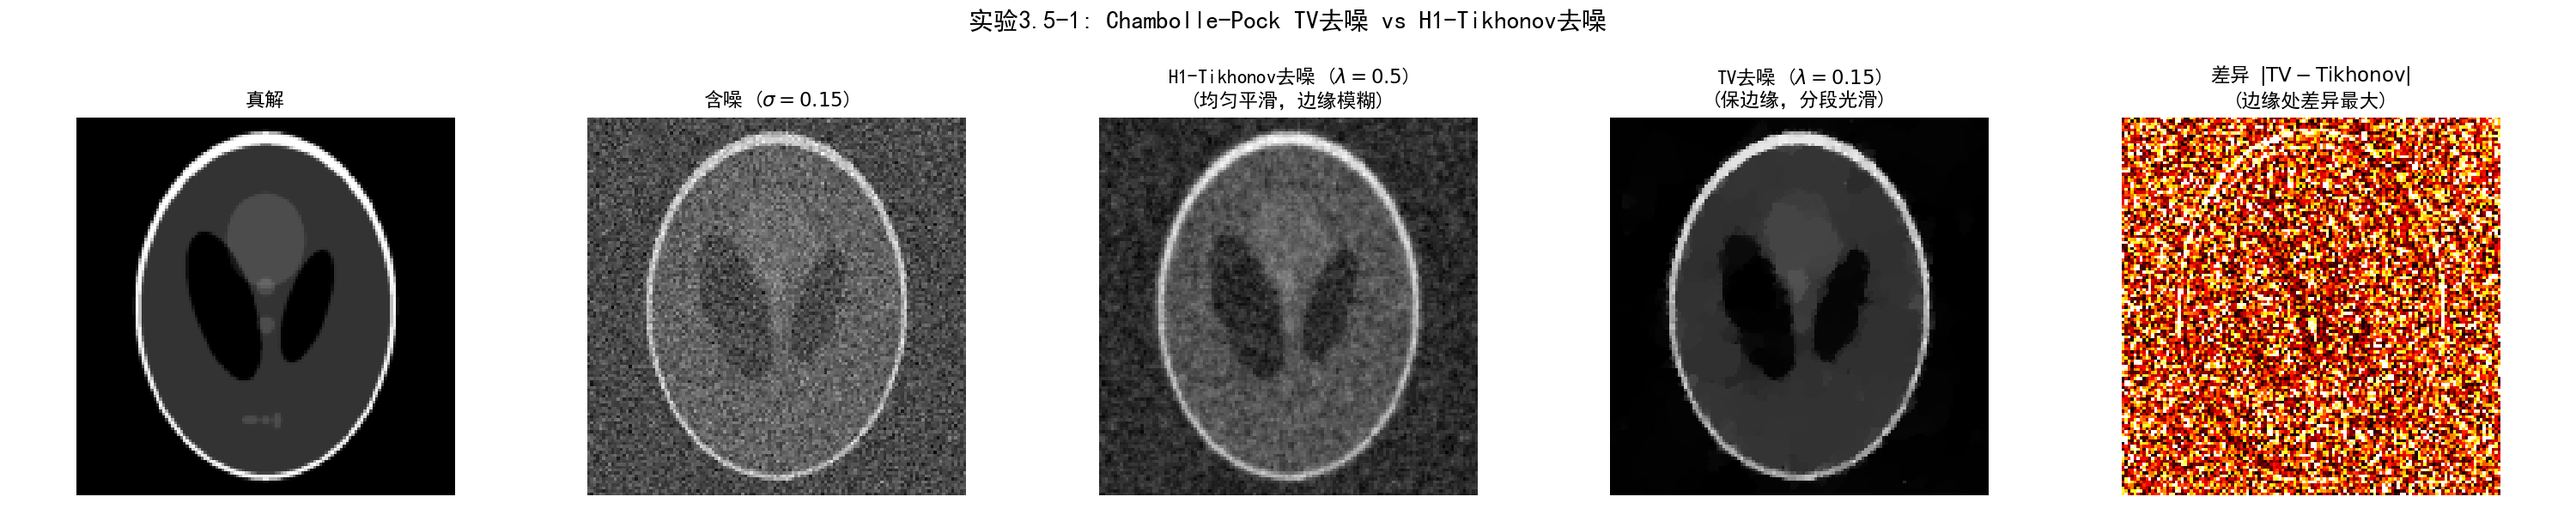
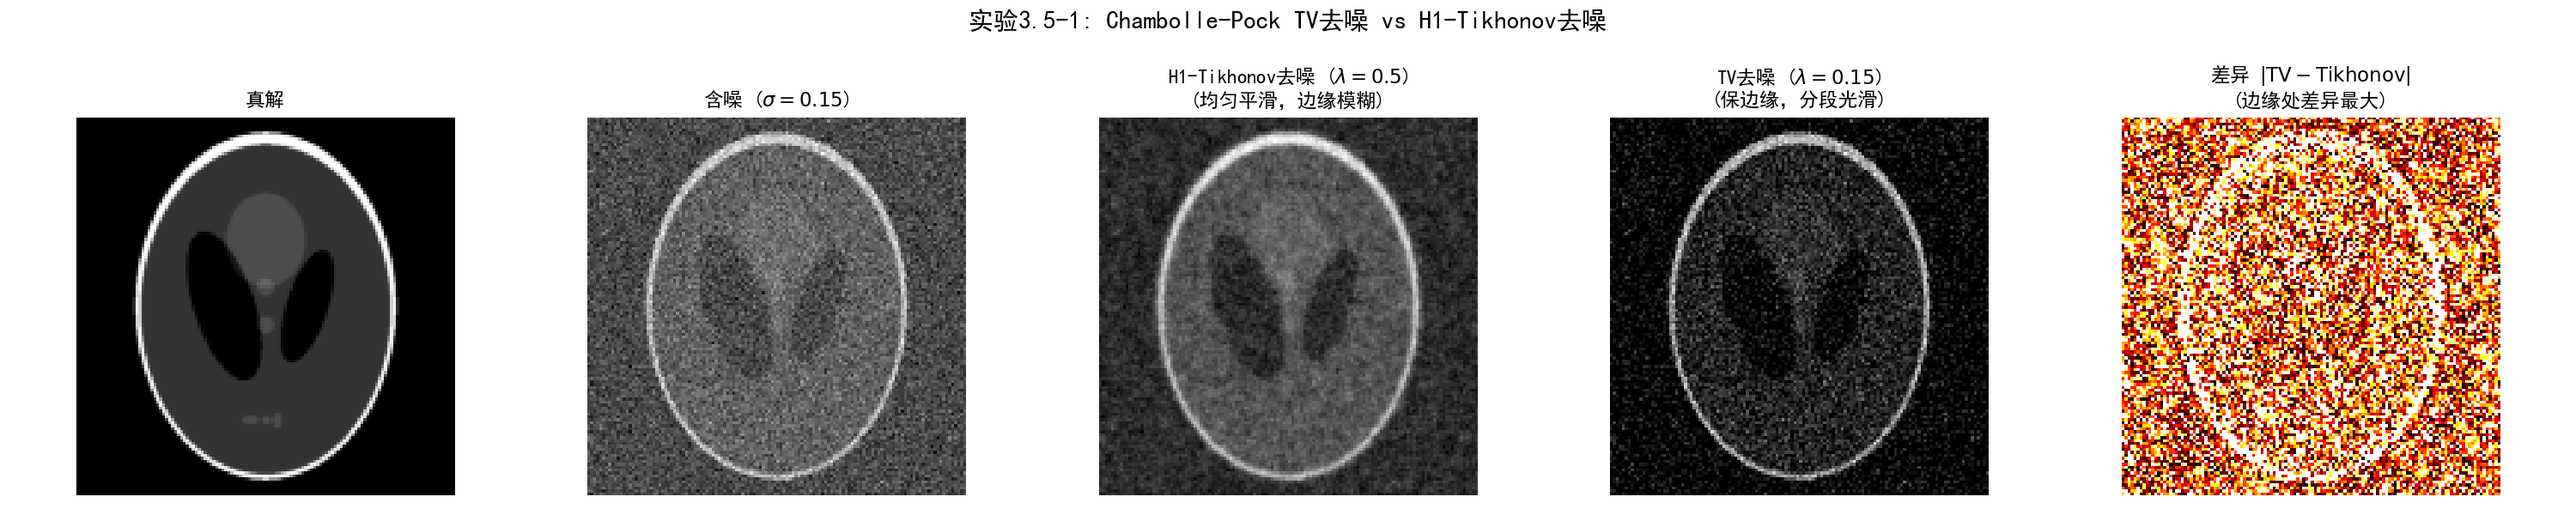
new

Changed region(s): [[0.806, 0.21, 0.992, 0.96], [0.62, 0.24, 0.775, 0.96]]

diff --git a/第3章 从MAP到后验探索/配套实验/实验3.5-1/3.5-1.py b/第3章 从MAP到后验探索/配套实验/实验3.5-1/3.5-1.py
@@ -122,11 +122,10 @@ def chambolle_pock_tv_denoise(y, lam, maxiter=500):
         # ---- 原始步: 近端梯度下降 ----
         x_old = x.copy()
         div_p = dxm_ad(px) + dym_ad(py)
-        x = (x - tau * (-div_p) + tau * y) / (1 + tau)
-        x = np.maximum(0, x)
+        x = (x_old + tau * div_p + tau * y) / (1 + tau)
+        x = np.maximum(0, x)  # 图像非负约束（非算法标准步骤，仅适用于灰度图像）
 
-        # ---- 外推步 ----
-        x_bar = 2 * x - x_old
+        # ---- 外推步: x_bar = x + (x_new - x_old)（过外推，驱动对偶变量跟上原始更新）----
 
     return x
 
@@ -162,8 +161,8 @@ print("实验3.5-1 Chambolle-Pock算法TV去噪")
 print("=" * 60)
 
 n = 128
-x_true = resize(shepp_logan_phantom(), (n, n), order=0,
-                preserve_range=True, anti_aliasing=True)
+x_true = resize(shepp_logan_phantom(), (n, n), order=1,
+                preserve_range=True)
 
 sigma = 0.15
 y = x_true + sigma * np.random.randn(n, n)
@@ -233,7 +232,7 @@ plt.close()
 
 psnr_noisy = peak_signal_noise_ratio(x_true, y)
 psnr_tikh = peak_signal_noise_ratio(x_true, np.clip(x_tikh, 0, 1))
-psnr_tv = peak_signal_noise_ratio(x_true, np.clip(x_tv, 0, 1))
+psnr_tv = peak_signal_noise_ratio(x_true, np.clip(x_tv, None, 1))  # x_tv已保证非负，只需clip上界
 
 print(f"\n[PSNR 对比]")
 print(f"  含噪图像:      {psnr_noisy:.2f} dB")
@@ -265,7 +264,7 @@ print(f"     — 只惩罚梯度的总幅度，不惩罚梯度的平方")
 print(f"  2. 当近端算子无闭式解时 (TV = ‖D·‖₁)，Fenchel对偶打开新路径:")
 print(f"     g(x) = ‖Dx‖₁ → g*(y) = ι_{{‖y‖_∞ ≤ λ}} (简单投影!)")
 print(f"  3. Chambolle-Pock 在鞍点结构上交替更新原始/对偶变量")
-print(f"     — 每步代价 O(n)，步长条件 τσ‖K‖² < 1 保证收敛")
+print(f"     — 每步代价 O(n)，步长条件 τσ‖K‖² ≤ 1 保证收敛")
 print(f"  4. TV vs H1-Tikhonov: 保边 vs 平滑 — 同一问题的不同正则化哲学")
 print(f"     — TV更适合分段光滑图像 (如 phantom)，H1更适合平滑图像")
 
